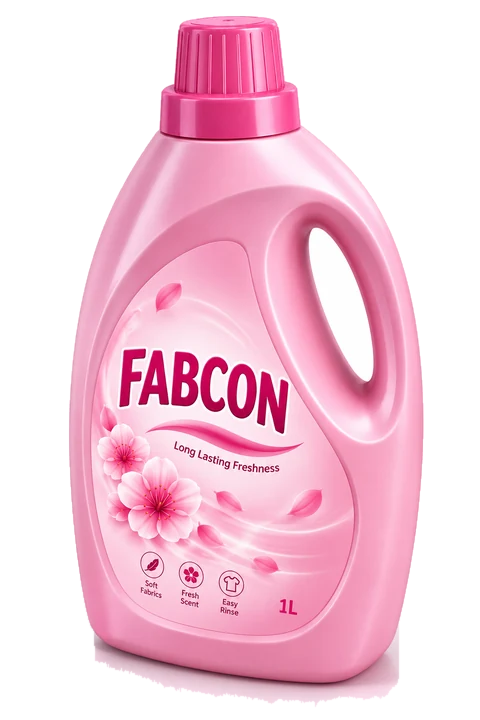
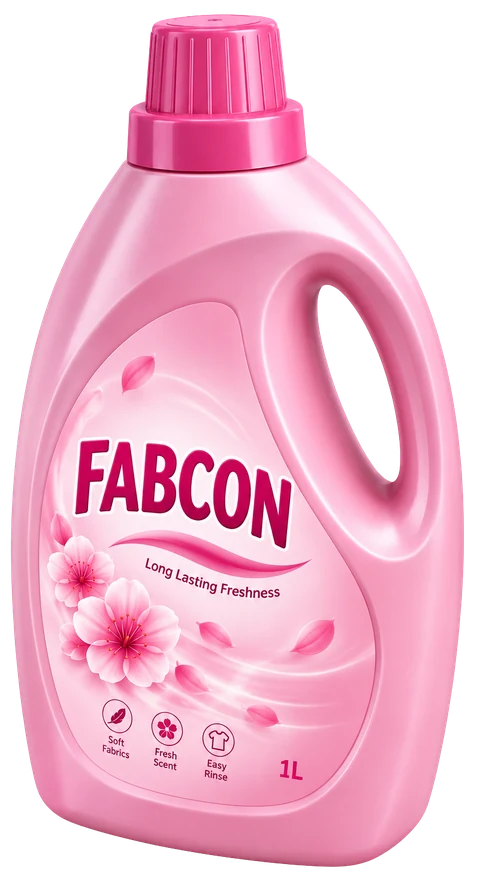
polish(dashboard): use the supplied transparent artwork
Six *TRANS.png files landed in UI DESIGN LAYOUT -- proper cutouts, and better
than the ones I produced by hand: no halo, no leftover ground reflection, and
the handle holes are actually transparent rather than a white oval, which my
border flood fill could never have reached because they are enclosed.

Trimmed by ONE shared box, not per image. Each file carries about 30% empty
margin, and cropping each to its own bounds would have made a short bottle
render as tall as a tall one -- the six would stop being comparable at a
glance, which is half of what a photo is doing on a till. The union box takes
25% off every frame and leaves the relative sizes intact.

The tile's proportion follows the artwork: 0.54, measured off the shared alpha
bounds (801x1482), where it had been 0.62 for the old 2:3 renders. That is not
cosmetic -- with the tile at 0.62 these files became height-limited and lost a
fifth of their width, drawing 65px instead of 94 at 1280. Bottle now fills 34%
of the card at 1600 and 1920, against 27% before.

440KB for the set, up from 260KB: alpha costs more to encode than a flat white
ground. Still nothing on a LAN, and worth it for artwork that is actually clean.

Worth knowing: the photo is smallest between 1181 and 1400, where the stepper
row spans the card and the tile only gets two of the three rows -- 65px at
1280 against 147px at 1600. If the tablet reports a width in that band, say so
[…]

diff --git a/cashier_dashboard/public/css/v2.css b/cashier_dashboard/public/css/v2.css
@@ -387,10 +387,11 @@ button { font: inherit; color: inherit; }
      At 2:3 the bottle fills the tile edge to edge, which is how the design
      draws it. max-height keeps it inside a short card, where it letterboxes
      slightly rather than overflowing. */
-  /* 0.62, not 2/3. That is the design's own tile proportion -- very slightly
-     taller than the 2:3 artwork, which leaves the few pixels of breathing room
-     above and below the bottle that the mockup shows. */
-  width: 100%; aspect-ratio: 0.62; max-height: 100%;
+  /* 0.54 -- the supplied transparent artwork's own proportion, measured off
+     its alpha bounds (801x1482 once the empty margin is trimmed). The tile has
+     to match the picture in it: at 0.62 the bottles became height-limited and
+     lost a fifth of their width, drawing 65px instead of 94 at 1280. */
+  width: 100%; aspect-ratio: 0.54; max-height: 100%;
   align-self: center;
   display: flex; align-items: center; justify-content: center;
   min-width: 0; min-height: 0;
